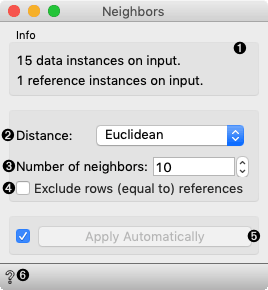
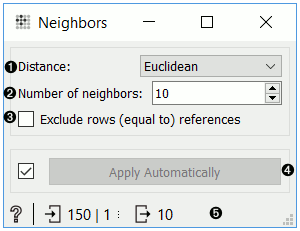
Neighbors: data info displayed in status bar

diff --git a/Orange/widgets/data/tests/test_owneighbors.py b/Orange/widgets/data/tests/test_owneighbors.py
@@ -1,4 +1,4 @@
-# pylint: disable=missing-docstring,protected-access
+#pylint: disable=missing-docstring,protected-access,unsubscriptable-object
 import unittest
 from unittest.mock import Mock
 
@@ -122,21 +122,36 @@ class TestOWNeighbors(WidgetTest):
         widget.apply_button.button.click()
         self.assertIsNotNone(self.get_output("Neighbors"))
 
-    def test_labels(self):
-        """Check labels are updated when data is received"""
+    def test_input_summary(self):
+        """Check if status bar is updated when data is received"""
         widget = self.widget
+        input_sum = widget.info.set_input_summary = Mock()
         data = Table("iris")
+
+        input_sum.reset_mock()
+        self.send_signal(widget.Inputs.reference, data[:5])
+        input_sum.assert_called_with("0 | 5 ", "No data instance(s) on input\n"\
+                                               "5 reference instance(s) on input ")
+
+        input_sum.reset_mock()
         self.send_signal(widget.Inputs.data, data[:10])
-        self.assertIn("10", widget.data_info_label.text())
-        self.send_signal(widget.Inputs.reference, data[:12])
-        self.assertIn("12", widget.reference_info_label.text())
-        self.send_signal(widget.Inputs.reference, data[:15])
-        self.assertIn("15", widget.reference_info_label.text())
-        self.send_signal(widget.Inputs.data, None)
-        self.assertNotIn("10", widget.data_info_label.text())
-        self.assertIn("15", widget.reference_info_label.text())
-        self.send_signal(widget.Inputs.reference, None)
-        self.assertNotIn("15", widget.reference_info_label.text())
+        input_sum.assert_called_with("10 | 5 ", "10 data instance(s) on input\n"\
+                                                "5 reference instance(s) on input ")
+
+        input_sum.reset_mock()
+        self.send_signals([(widget.Inputs.data, None), (widget.Inputs.reference, None)])
+        input_sum.assert_called_once()
+        self.assertEqual(input_sum.call_args[0][0].brief, "")
+
+        input_sum.reset_mock()
+        self.send_signal(widget.Inputs.data, data[:15])
+        input_sum.assert_called_with("15 | 0 ", "15 data instance(s) on input\n" \
+                                                "No reference instance(s) on input ")
+
+        input_sum.reset_mock()
+        self.send_signals([(widget.Inputs.data, data[:12]), (widget.Inputs.reference, data[-1:])])
+        input_sum.assert_called_with("12 | 1 ", "12 data instance(s) on input\n"\
+                                                "1 reference instance(s) on input ")
 
     def test_compute_distances_apply_called(self):
         """Check compute distances and apply are called when receiving signal"""
@@ -314,6 +329,7 @@ class TestOWNeighbors(WidgetTest):
 
     def test_apply(self):
         widget = self.widget
+        output_sum = widget.info.set_output_summary = Mock()
         widget.auto_apply = True
         data = Table("iris")
         indices = np.array([5, 10, 15, 100])
@@ -326,6 +342,7 @@ class TestOWNeighbors(WidgetTest):
         np.testing.assert_almost_equal(neigh.X, data.X[indices])
         np.testing.assert_almost_equal(
             neigh.metas.flatten(), widget.distances[indices])
+        output_sum.assert_called_with(str(len(neigh)))
 
     def test_all_equal_ref(self):
         widget = self.widget

diff --git a/Orange/widgets/data/owneighbors.py b/Orange/widgets/data/owneighbors.py
@@ -64,12 +64,6 @@ class OWNeighbors(OWWidget):
         self.reference = None
         self.distances = None
 
-        box = gui.vBox(self.controlArea, "Info")
-        self.data_info_label = gui.widgetLabel(box, "")
-        self.reference_info_label = gui.widgetLabel(box, "")
-        self._set_label_text("data")
-        self._set_label_text("reference")
-
         box = gui.vBox(self.controlArea, box=True)
         gui.comboBox(
             box, self, "distance_index", orientation=Qt.Horizontal,
@@ -87,29 +81,33 @@ class OWNeighbors(OWWidget):
             callback=lambda: self.apply())
 
         self.apply_button = gui.auto_apply(self.controlArea, self, commit=self.apply)
+        self.info.set_input_summary(self.info.NoInput)
+        self.info.set_output_summary(self.info.NoOutput)
 
-    def _set_label_text(self, name):
-        data = getattr(self, name)
-        label = getattr(self, f"{name}_info_label")
-        if data is None:
-            label.setText(f"No {name} instances")
+    def _set_input_summary(self):
+        n_data = len(self.data) if self.data else 0
+        n_refs = len(self.reference) if self.reference else 0
+
+        if n_data or n_refs:
+            details = \
+                f"{n_data if n_data else 'No'} data instance(s) on input\n" \
+                f"{n_refs if n_refs else 'No'} reference instance(s) on input "
+            self.info.set_input_summary(f"{n_data} | {n_refs} ", details)
         else:
-            pl = "s" if data else ""
-            label.setText(f"{len(data)} {name} instance{pl} on input.")
+            self.info.set_input_summary(self.info.NoInput)
 
     @Inputs.data
     def set_data(self, data):
         self.data = data
-        self._set_label_text("data")
 
     @Inputs.reference
     def set_ref(self, refs):
         self.reference = refs
-        self._set_label_text("reference")
 
     def handleNewSignals(self):
         self.compute_distances()
         self.unconditional_apply()
+        self._set_input_summary()
 
     def recompute(self):
         self.compute_distances()
@@ -141,10 +139,13 @@ class OWNeighbors(OWWidget):
 
     def apply(self):
         indices = self._compute_indices()
+
         if indices is None:
             neighbors = None
+            self.info.set_output_summary(self.info.NoOutput)
         else:
             neighbors = self._data_with_similarity(indices)
+            self.info.set_output_summary(str(len(neighbors)))
         self.Outputs.data.send(neighbors)
 
     def _compute_indices(self):

diff --git a/doc/visual-programming/source/widgets/data/neighbors.md b/doc/visual-programming/source/widgets/data/neighbors.md
@@ -16,12 +16,11 @@ The **Neighbors** widget computes nearest neighbors for a given reference and fo
 
 ![](images/neighbours-stamped.png)
 
-1. Information on the input data.
-2. Distance measure for computing neighbors. Supported measures are: Euclidean, Manhattan, Mahalanobis, Cosine, Jaccard, Spearman, absolute Spearman, Pearson, absolute Pearson. 
-3. Number of neighbors on the output.
-4. If *Exclude rows (equal to) references* is ticked, data instances that are highly similar to the reference (distance < 1e-5), will be excluded.
-5. Click *Apply* to commit the changes. To communicate changes automatically tick *Apply Automatically*.
-6. Access widget help.
+1. Distance measure for computing neighbors. Supported measures are: Euclidean, Manhattan, Mahalanobis, Cosine, Jaccard, Spearman, absolute Spearman, Pearson, absolute Pearson. 
+2. Number of neighbors on the output.
+3. If *Exclude rows (equal to) references* is ticked, data instances that are highly similar to the reference (distance < 1e-5), will be excluded.
+4. Click *Apply* to commit the changes. To communicate changes automatically tick *Apply Automatically*.
+5. Status bar with access to widget help and information on the input and output data.
 
 Examples
 --------
